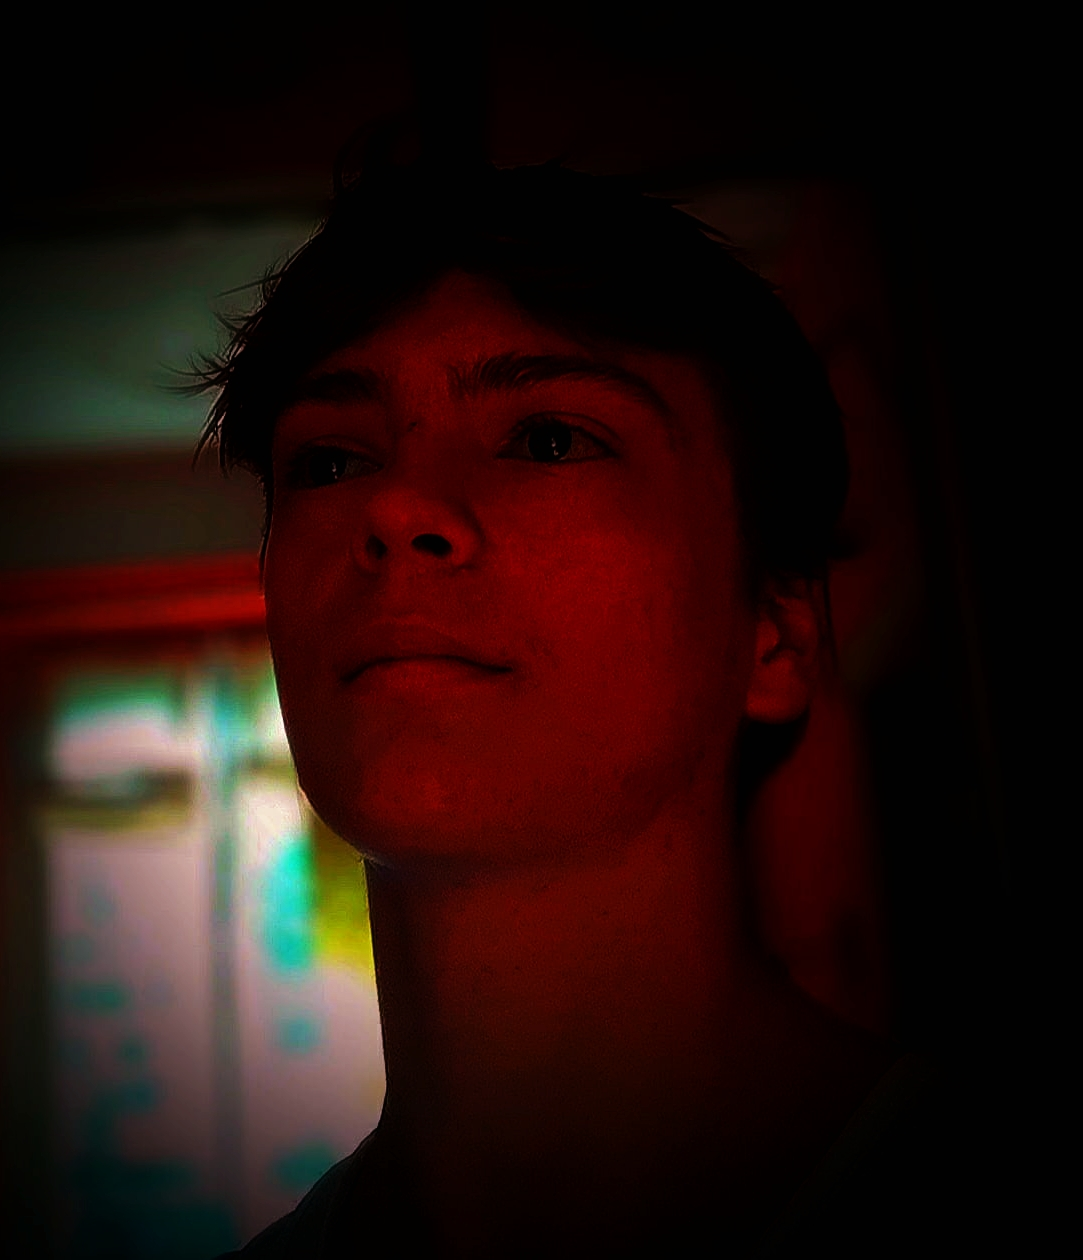
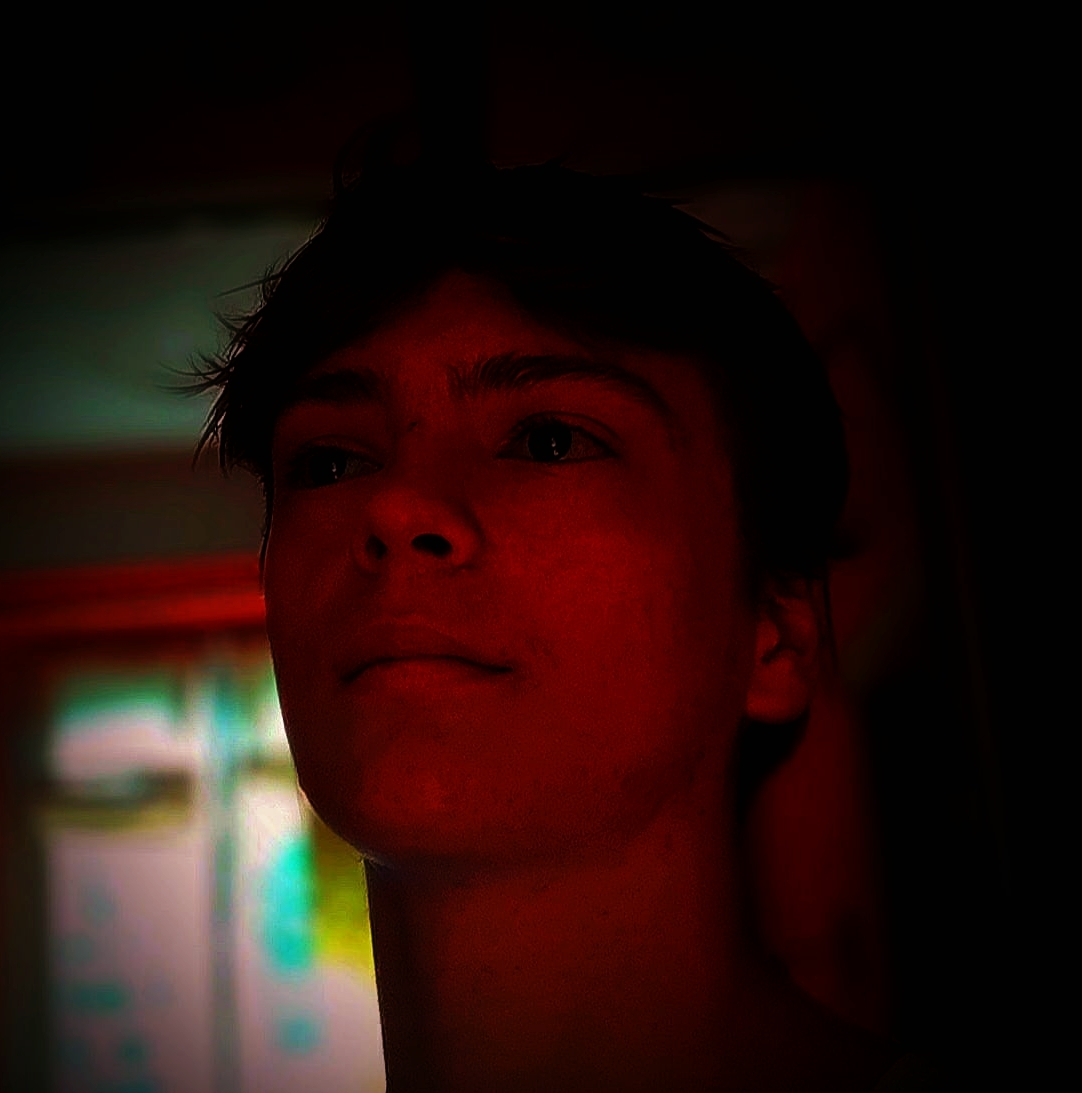
updating configs and bio image

diff --git a/_site/index.html b/_site/index.html
@@ -4,7 +4,7 @@
 <head>
     <meta charset="utf-8">
     <meta name="viewport" content="width=device-width, initial-scale=1.0, shrink-to-fit=no">
-    <title>personal</title>
+    <title>Tommaso</title>
     <link rel="stylesheet" href="assets/bootstrap/css/bootstrap.min.css">
     <link rel="stylesheet" href="https://fonts.googleapis.com/css?family=Actor">
     <link rel="stylesheet" href="https://fonts.googleapis.com/css?family=Alata">
@@ -18,7 +18,7 @@
 </head>
 
 <body>
-    <section id="main_heading"><img class="pulse animated" id="main_header_img" src="assets/img/ffgg.png">
+    <section id="main_heading"><img class="pulse animated" id="main_header_img" src="assets/img/profimg.jpeg">
         <section class="pulse animated" id="main_header_txt">
             <h1 class="pulse animated" style="font-family: Alata, sans-serif;font-size: 41px;"><strong class="pulse animated">Tommaso<br></strong></h1>
             <h6 class="pulse animated" id="main_header_descr" style="font-family: Alata, sans-serif;color: rgb(114,121,128);">Developer • Deep Learning Enthusiast&nbsp;• Building with and on Cryptos</h6>
@@ -28,7 +28,7 @@
             <h4></h4>
             <section id="aboutme"></section>
         </section>
-        <div class="pulse animated social-icons"><a href="https://medium.com/@tdpdev" target="_blank"><i class="fab fa-medium" style="border-width: 0px;"></i></a><a href="https://hackerone.com/hensis" target="_blank"><i class="fas fa-bug" style="border-width: 0;"></i></a><a href="https://github.com/hensis" target="_blank"><i class="fab fa-github" style="border-width: 0px;"></i><i class="fab fa-twitter" style="border-width: 0px;"></i></a><a href="#"></a><a href="#"></a><a href="#"></a></div>
+        <div class="pulse animated social-icons"><a href="https://medium.com/@tdpdev" target="_blank"><i class="fab fa-medium" style="border-width: 0px;"></i></a><a href="https://hackerone.com/hensis" target="_blank"><i class="fas fa-bug" style="border-width: 0;"></i></a><a href="https://github.com/hensis" target="_blank"><i class="fab fa-github" style="border-width: 0px;"></i></a><a href="https://twitter.com/_hensis_"></a><a href="#"></a><a href="#"></a></div>
         <hr>
         <section>
             <h4><strong>About Me</strong></h4>
@@ -40,7 +40,7 @@
         <section>
             <h4><strong>Blog</strong></h4>
             <section id="aboutme-2">
-                <p style="color: rgb(78,79,81);">I am constantly writing new programming and tech-related articles on my Medium blog. This is a static website, however, to keep you posted I created this medium page with all my updated articles.</p>
+                <p style="color: rgb(78,79,81);">I am constantly writing new programming and tech-related articles on my Medium blog. This is a static website, however, to keep you posted I created this medium page with all my updated articles: https://tdpdev.medium.com/links-and-useful-resources-16534e26df0f</p>
             </section>
         </section>
         <hr>
